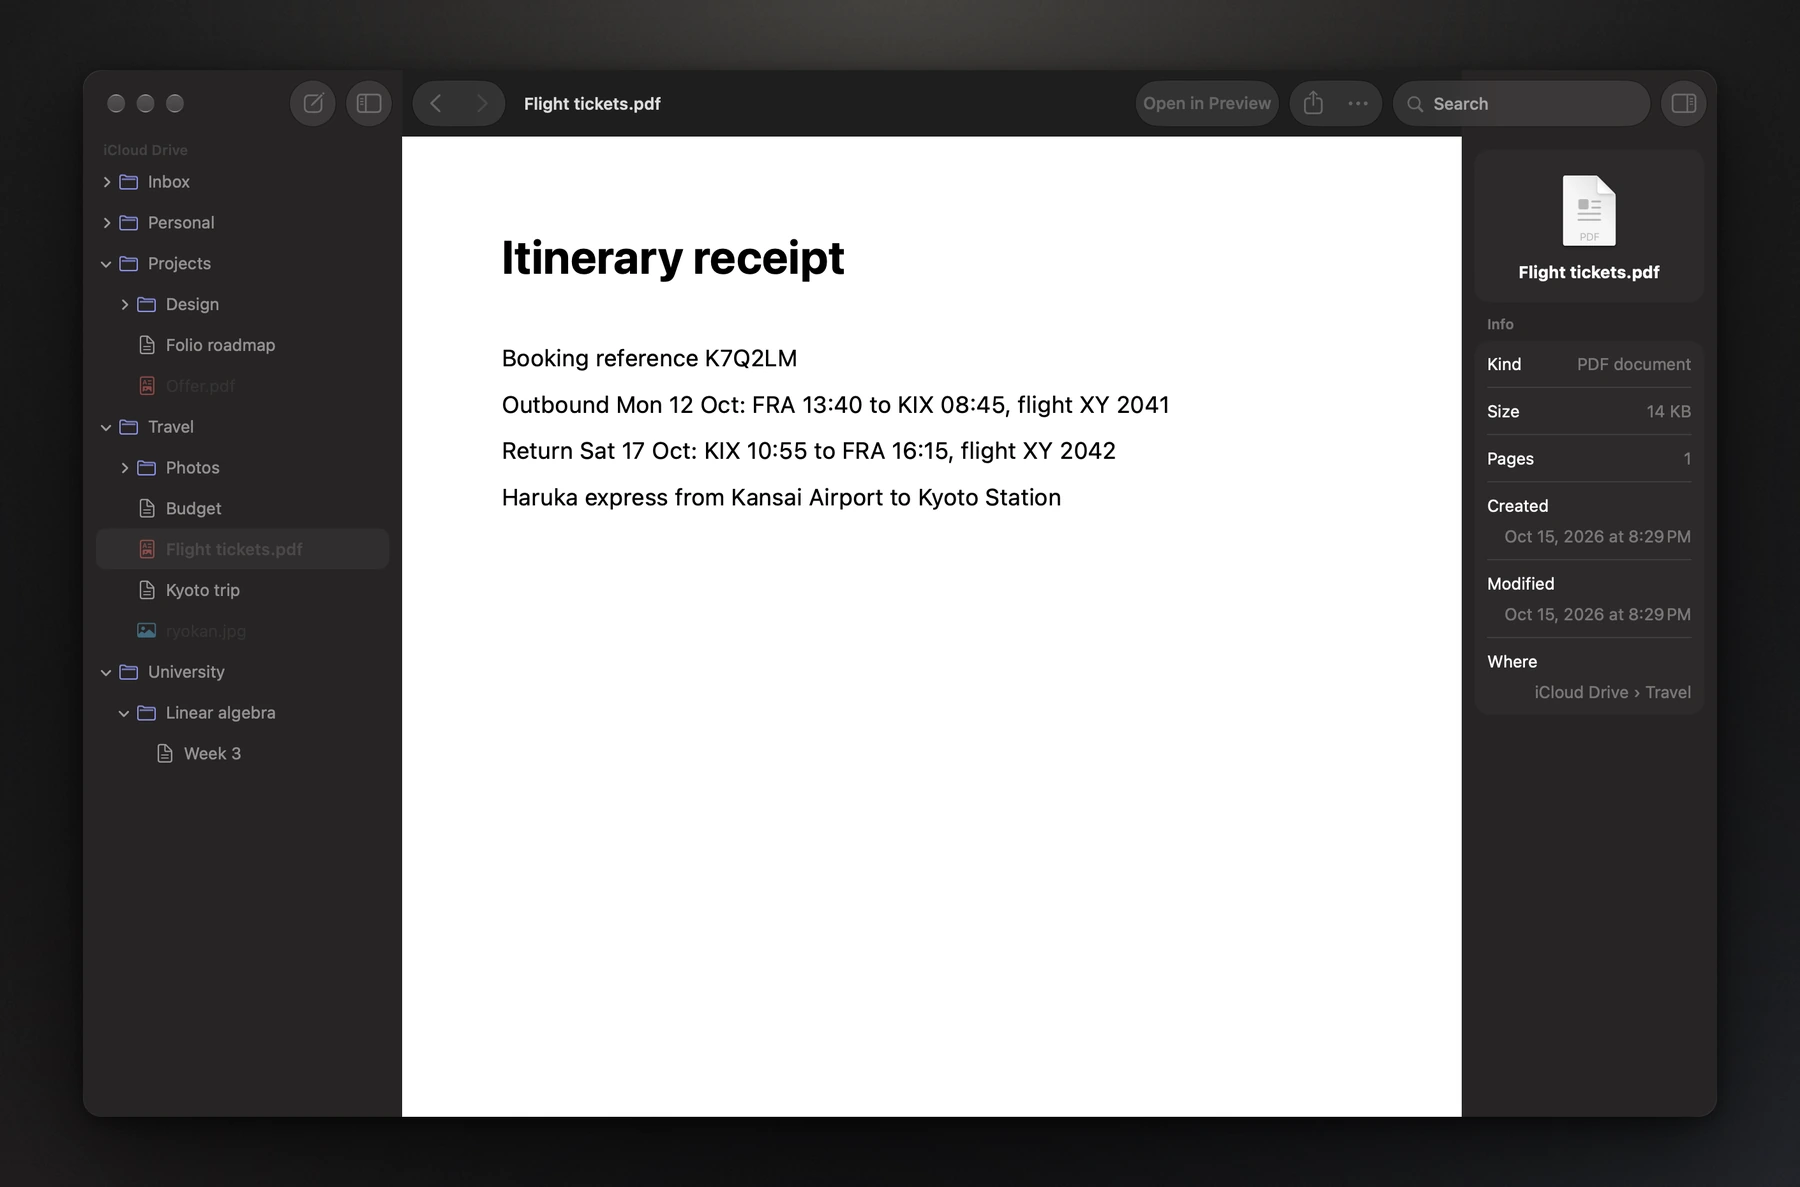
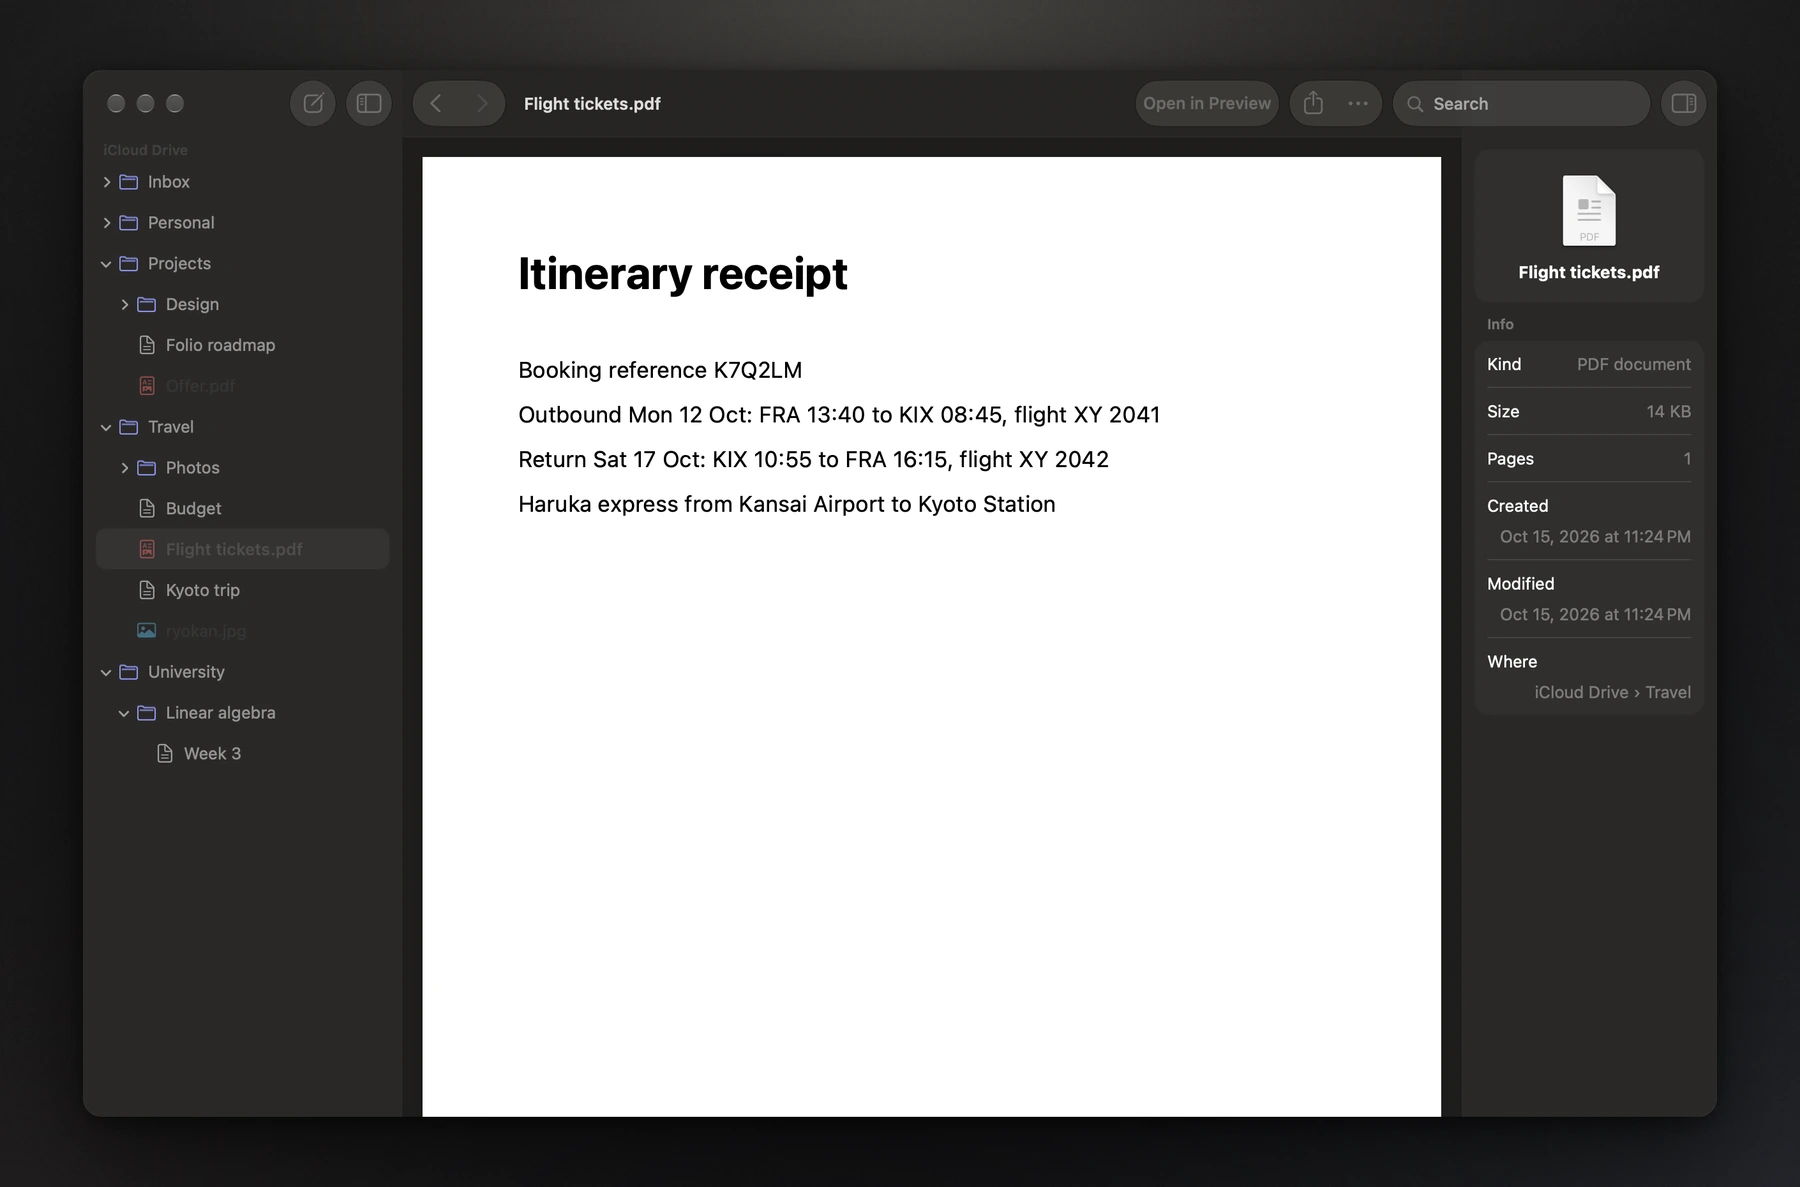
PDFs open as in Preview, without Quick Look's placeholder (#32)
A PDF in the window was a Quick Look view, which shows a dashed placeholder until its
out-of-process preview arrives. PDFs now open in PDFKit's view, set up like Preview's
continuous scroll: the pages fit the width on the grey behind them, with shadows, and
scroll under the toolbar. The file is read in the background through NSFileCoordinator
(which also waits for iCloud), the pages fade in, and a system spinner shows only when
that takes over 0.6 s ("Downloading from iCloud…" for a file not on the Mac yet). Each
PDF keeps its scroll position and zoom for the session, so Back, Forward and swipes land
where you left it. Damaged or password-protected PDFs still go to Quick Look, which has
its own file icon and password field.

PDFKit fits the width only after the document is set and keeps the view's centre, which
left the first page part way down; the view scrolls to the top below the toolbar itself.
Page snapshots for swipes now carry their background, so a sliding PDF stays grey under
the toolbar.

README and changelog describe PDFs this way, with new Quick Look pictures. Debug remote:
pdfdelay, pdfscroll and pdfinfo.

Changed region(s): [[0.2178, 0.0935, 0.9022, 0.9351], [0.28, 0.2805, 0.6533, 0.4364], [0.28, 0.187, 0.4667, 0.2494]]

diff --git a/Packages/FolioKit/Sources/FolioKit/UI/PDFFileView.swift b/Packages/FolioKit/Sources/FolioKit/UI/PDFFileView.swift
@@ -1,0 +1,118 @@
+import PDFKit
+import SwiftUI
+
+/// A PDF, drawn by PDFKit right in the window as Preview draws it: the pages one under the other on the grey behind
+/// them, scrolling under the toolbar. The file is read in the background and the pages fade in once it is; until then
+/// there is only the grey, and a spinner if that takes long enough to notice. A file still in iCloud says it is
+/// downloading. A PDF that PDFKit can't show (damaged, or locked with a password) goes to Quick Look instead.
+struct PDFFileView: View {
+    let url: URL
+    @State private var document: PDFDocument?
+    @State private var waiting: Waiting?
+    @State private var failed = false
+
+    private enum Waiting { case reading, downloading }
+
+    var body: some View {
+        if failed {
+            QuickLookView(url: url)
+        } else {
+            ZStack {
+                PDFKitView(url: url, document: document)
+                    .opacity(document == nil ? 0 : 1)
+                    .ignoresSafeArea(.container, edges: .top)
+                if document == nil, let waiting {
+                    Group {
+                        if waiting == .downloading {
+                            ProgressView("Downloading from iCloud…")
+                        } else {
+                            ProgressView()
+                        }
+                    }
+                    .foregroundStyle(.secondary)
+                    .transition(.opacity)
+                }
+            }
+            .frame(maxWidth: .infinity, maxHeight: .infinity)
+            .background(Color(nsColor: .underPageBackgroundColor).ignoresSafeArea())
+            .animation(.easeOut(duration: 0.2), value: document != nil)
+            .animation(.easeOut(duration: 0.2), value: waiting != nil)
+            .task { await load() }
+        }
+    }
+
+    private func load() async {
+        let inCloud = (try? url.resourceValues(forKeys: [.ubiquitousItemDownloadingStatusKey]).ubiquitousItemDownloadingStatus) == .notDownloaded
+        // As everywhere on the Mac, nothing spins for a wait too short to notice.
+        let indicator = Task {
+            try? await Task.sleep(for: .seconds(inCloud ? 0.2 : 0.6))
+            if !Task.isCancelled { waiting = inCloud ? .downloading : .reading }
+        }
+        defer { indicator.cancel() }
+        let url = url
+        let loaded = await Task.detached(priority: .userInitiated) { () -> PDFDocument? in
+            #if DEBUG
+            if let delay = Self.debugDelay { try? await Task.sleep(for: .seconds(delay)) }
+            #endif
+            // A coordinated read waits for iCloud to bring the file down, and for anyone still writing it.
+            var document: PDFDocument?
+            NSFileCoordinator().coordinate(readingItemAt: url, options: [], error: nil) { url in
+                document = PDFDocument(url: url)
+            }
+            return document
+        }.value
+        guard !Task.isCancelled else { return }
+        if let loaded, !loaded.isLocked, loaded.pageCount > 0 {
+            document = loaded
+        } else {
+            failed = true
+        }
+    }
+
+    #if DEBUG
+    /// For the debug remote: makes reading every PDF take this long, to see the wait.
+    nonisolated(unsafe) static var debugDelay: TimeInterval?
+    #endif
+}
+
+/// PDFKit's view, set up like Preview's continuous scroll: the pages fit the width, with page breaks and shadows.
+/// It keeps where you were in each PDF, so going back to one (or swiping to it) shows the page you left.
+private struct PDFKitView: NSViewRepresentable {
+    let url: URL
+    let document: PDFDocument?
+
+    /// Where each PDF was left: how far it was scrolled, in the pages' own points, and its zoom unless it fit the width.
+    @MainActor private static var places: [URL: (origin: CGPoint, scale: CGFloat?)] = [:]
+
+    func makeCoordinator() -> URL { url }
+
+    func makeNSView(context: Context) -> PDFView {
+        let view = PDFView()
+        view.displayMode = .singlePageContinuous
+        view.displaysPageBreaks = true
+        view.pageShadowsEnabled = true
+        view.pageBreakMargins = NSEdgeInsets(top: 12, left: 12, bottom: 12, right: 12)
+        view.autoScales = true
+        view.backgroundColor = .underPageBackgroundColor
+        return view
+    }
+
+    func updateNSView(_ view: PDFView, context: Context) {
+        guard view.document !== document else { return }
+        view.document = document
+        let place = Self.places[url]
+        if let scale = place?.scale { view.scaleFactor = scale }
+        guard document != nil, let scrollView = view.documentView?.enclosingScrollView else { return }
+        // PDFKit fits the pages to the width only now, and keeps the middle of the view where it was, which leaves
+        // the first page part way down. It starts at the top instead, below the toolbar, or where it was left.
+        view.layoutDocumentView()
+        let clip = scrollView.contentView
+        clip.scroll(to: place?.origin ?? NSPoint(x: clip.bounds.minX, y: -scrollView.contentInsets.top / scrollView.magnification))
+        scrollView.reflectScrolledClipView(clip)
+    }
+
+    static func dismantleNSView(_ view: PDFView, coordinator url: URL) {
+        guard view.document != nil, let clip = view.documentView?.enclosingScrollView?.contentView else { return }
+        places[url] = (clip.bounds.origin, view.autoScales ? nil : view.scaleFactor)
+    }
+}

diff --git a/Packages/FolioKit/Sources/FolioKit/UI/SwipeNavigation.swift b/Packages/FolioKit/Sources/FolioKit/UI/SwipeNavigation.swift
@@ -99,7 +99,9 @@ final class PageSwiper {
             configuration.showsCursor = false
             guard let image = try? await SCScreenshotManager.captureImage(contentFilter: SCContentFilter(desktopIndependentWindow: shown), configuration: configuration),
                   !Task.isCancelled, self.quickLookURL == url else { return }
-            self.keep(PageSnapshot(image: image, frame: area, in: self.anchor), for: url)
+            // A PDF lies on the grey behind its pages, which reaches up under the toolbar.
+            let background: NSColor = FileKind(url: url, isDirectory: false) == .pdf ? .underPageBackgroundColor : Theme.panel
+            self.keep(PageSnapshot(image: image, frame: area, in: self.anchor, background: background), for: url)
         }
     }
 
@@ -291,20 +293,24 @@ final class PageSwiper {
     #endif
 }
 
-/// A page as it looked: a picture, where it sat on the stage (from the top, centred like the note's text), and
-/// whether it was light or dark.
+/// A page as it looked: a picture, where it sat on the stage (from the top, centred like the note's text), what
+/// was around it, and whether it was light or dark.
 struct PageSnapshot {
     let image: CGImage
     let size: CGSize
     let top: CGFloat
     let centerOffset: CGFloat
+    let background: CGColor
     let appearance: NSAppearance.Name?
 
-    init(image: CGImage, frame: NSRect, in view: NSView) {
+    init(image: CGImage, frame: NSRect, in view: NSView, background: NSColor = Theme.panel) {
         self.image = image
         size = frame.size
         top = view.bounds.maxY - frame.maxY
         centerOffset = frame.midX - view.bounds.midX
+        var color = background.cgColor
+        view.effectiveAppearance.performAsCurrentDrawingAppearance { color = background.cgColor }
+        self.background = color
         appearance = Self.appearance(of: view)
     }
 
@@ -368,14 +374,12 @@ final class SwipeStageView: NSView {
         CATransaction.setDisableActions(true)
         layer?.removeAllAnimations()
         layer?.opacity = 1
-        for (content, snapshot) in [(lowerContent, direction == .back ? target : page), (upperContent, direction == .back ? page : target)] {
+        for (side, content, snapshot) in [(lower, lowerContent, direction == .back ? target : page), (upper, upperContent, direction == .back ? page : target)] {
+            side.removeAllAnimations()
+            side.frame = bounds
+            side.backgroundColor = snapshot?.background ?? background
             content.contents = snapshot?.image
             content.frame = snapshot?.frame(in: bounds) ?? .zero
-        }
-        for page in [lower, upper] {
-            page.removeAllAnimations()
-            page.frame = bounds
-            page.backgroundColor = background
         }
         dimming.frame = bounds
         edgeShadow.frame = NSRect(x: -Self.shadowWidth, y: 0, width: Self.shadowWidth, height: bounds.height)

diff --git a/Packages/FolioKit/Sources/FolioKit/Debug/DebugRemote.swift b/Packages/FolioKit/Sources/FolioKit/Debug/DebugRemote.swift
@@ -1,5 +1,6 @@
 #if DEBUG
 import AppKit
+import PDFKit
 import SwiftUI
 
 /// Development-only remote control, as in Issues. Launch with `-debugCommandFile <path>` and append lines to that
@@ -359,9 +360,28 @@ enum DebugRemote {
             log("swipe \(argument)")
         case "undo":
             window?.firstResponder?.undoManager?.undo()
+        case "pdfdelay":
+            // pdfdelay <seconds>: reading a PDF takes this long (0 for as long as it really takes).
+            PDFFileView.debugDelay = numbers.first.flatMap { $0 > 0 ? $0 : nil }
+        case "pdfinfo":
+            // pdfinfo: how far the open PDF is scrolled, its zoom and its insets.
+            if let pdf = window?.contentView.flatMap(pdfView), let scrollView = pdf.documentView?.enclosingScrollView {
+                log("pdf clip=\(scrollView.contentView.bounds) scale=\(pdf.scaleFactor) auto=\(pdf.autoScales) insets=\(scrollView.contentInsets) document=\(scrollView.documentView?.frame ?? .zero)")
+            }
+        case "pdfscroll":
+            // pdfscroll <y>: scrolls the open PDF, in its pages' points from the top.
+            if let pdf = window?.contentView.flatMap(pdfView), let scrollView = pdf.documentView?.enclosingScrollView, let y = numbers.first {
+                scrollView.contentView.scroll(to: NSPoint(x: scrollView.contentView.bounds.minX, y: y))
+                scrollView.reflectScrolledClipView(scrollView.contentView)
+            }
         default:
             log("unknown command: \(line)")
         }
+    }
+
+    private static func pdfView(in view: NSView) -> PDFView? {
+        if let pdf = view as? PDFView { return pdf }
+        return view.subviews.lazy.compactMap(pdfView).first
     }
 
     private static func dump() {

diff --git a/Packages/FolioKit/Sources/FolioKit/UI/MainView.swift b/Packages/FolioKit/Sources/FolioKit/UI/MainView.swift
@@ -240,6 +240,9 @@ struct DetailColumn: View {
                 if workspace.note != nil {
                     NoteEditorView(editor: workspace.editor)
                         .ignoresSafeArea(.container, edges: .top)
+                } else if FileKind(url: url, isDirectory: false) == .pdf {
+                    PDFFileView(url: url)
+                        .id(url)
                 } else {
                     QuickLookView(url: url)
                         .id(url)

diff --git a/README.md b/README.md
@@ -41,8 +41,8 @@
 Apple Notes is a pleasure to write in, but it keeps your notes in its own database. Markdown apps keep them as files,
 but most of them feel like a code editor or ask you to move everything into a vault. Folio does both: it shows the
 folders you already have, iCloud Drive first, and turns the Markdown files in them into notes that write like Notes.
-Pictures, PDFs and every other file sit right next to them and open in Quick Look. What Folio saves is ordinary
-Markdown that GitHub, Obsidian or iA Writer read just the same.
+Pictures, PDFs and every other file sit right next to them and open in the window: PDFs as in Preview, the rest in
+Quick Look. What Folio saves is ordinary Markdown that GitHub, Obsidian or iA Writer read just the same.
 
 ## A quick tour
 
@@ -105,20 +105,21 @@ With an empty field, it lists what you opened last.
   <img alt="The search field with kyoto typed in: the note Kyoto trip under Files, and under In Notes and PDFs a match on page 1 of Flight tickets.pdf and one in the note Budget, then New Note kyoto" src="Design/screenshots/search-light.webp">
 </picture>
 
-### Every other file, in Quick Look
+### PDFs and every other file
 
-Folio is a browser for your folders, not only for notes. A PDF, a picture, a video or a spreadsheet opens in Quick
-Look right in the window, and the inspector shows its details. "Open in" hands it to its own app.
+Folio is a browser for your folders, not only for notes. A PDF opens right in the window the way Preview shows it,
+its pages one under the other: there at once, and back where you left it when you return. A picture, a video or a
+spreadsheet opens in Quick Look. The inspector shows a file's details, and "Open in" hands it to its own app.
 
 <picture>
   <source media="(prefers-color-scheme: dark)" srcset="Design/screenshots/quicklook-dark.webp">
-  <img alt="Flight tickets.pdf open in the window through Quick Look, with its kind, size, page count, dates and folder in the inspector" src="Design/screenshots/quicklook-light.webp">
+  <img alt="Flight tickets.pdf open in the window, its page on grey as in Preview, with its kind, size, page count, dates and folder in the inspector" src="Design/screenshots/quicklook-light.webp">
 </picture>
 
 ### A Mac app, made of the Mac's parts
 
 The window is built from the system's own pieces: a source-list sidebar, a toolbar with the system's search field and
-share menu, an inspector, Settings, alerts and Quick Look. It follows the system's light or dark appearance. The
+share menu, an inspector, Settings, alerts, PDFKit and Quick Look. It follows the system's light or dark appearance. The
 inspector shows a note's outline, with the section you're reading marked and a word count; a click on a heading
 scrolls there. In Settings › Text you pick the typeface (San Francisco, New York, Rounded or Monospaced), the size,
 the line spacing and the line width.
@@ -137,6 +138,7 @@ the line spacing and the line width.
   folds into a small "properties" pill.
 - **Pictures and files in notes.** Paste or drop them in; `![[embeds]]` of other notes show an excerpt, of files a
   card with a preview.
+- **PDFs and other files** open in the window: PDFs as in Preview, the rest in Quick Look.
 - **Search** across file names, note text and PDF text.
 - **Saves as you type,** and never overwrites a change made somewhere else (see below).
 - **Export** a note as a PDF or a PNG image, or print it.
@@ -275,7 +277,7 @@ Packages/FolioKit/
     Render/                  Tables, maths, diagrams and code highlighting
     Files/                   Locations, the file tree, file operations, saving, watching and the three-way merge
     Index/                   Search over names, note text and PDF text, and how [[links]] resolve
-    UI/                      The window, sidebar, inspector, search field, Settings, file windows and Quick Look
+    UI/                      The window, sidebar, inspector, search field, Settings, file windows, PDFs and Quick Look
     Debug/                   The debug remote and the sample notes (Debug builds only)
   Tests/                     Parser, editor, merge and smoothness tests
 Config/                      Build settings, Info.plist and entitlements

diff --git a/CHANGELOG.md b/CHANGELOG.md
@@ -21,7 +21,8 @@ The first version: a Mac app for Markdown notes in your own folders.
 - The title is the file name; renaming a note updates the links to it.
 - Search with ⌘F across file names, note text and PDF text.
 - Back and forward with ⌘[ and ⌘], or with a swipe as in Safari.
-- Quick Look for every other file, with its details in the inspector.
+- PDFs in the window as in Preview, there at once and back where you left them; Quick Look for every other file.
+  The inspector shows a file's details.
 - The outline of a note in the inspector, with a word count.
 - Saving as you type, with a three-way merge when a note changed somewhere else, and a choice when both changed the
   same lines.
